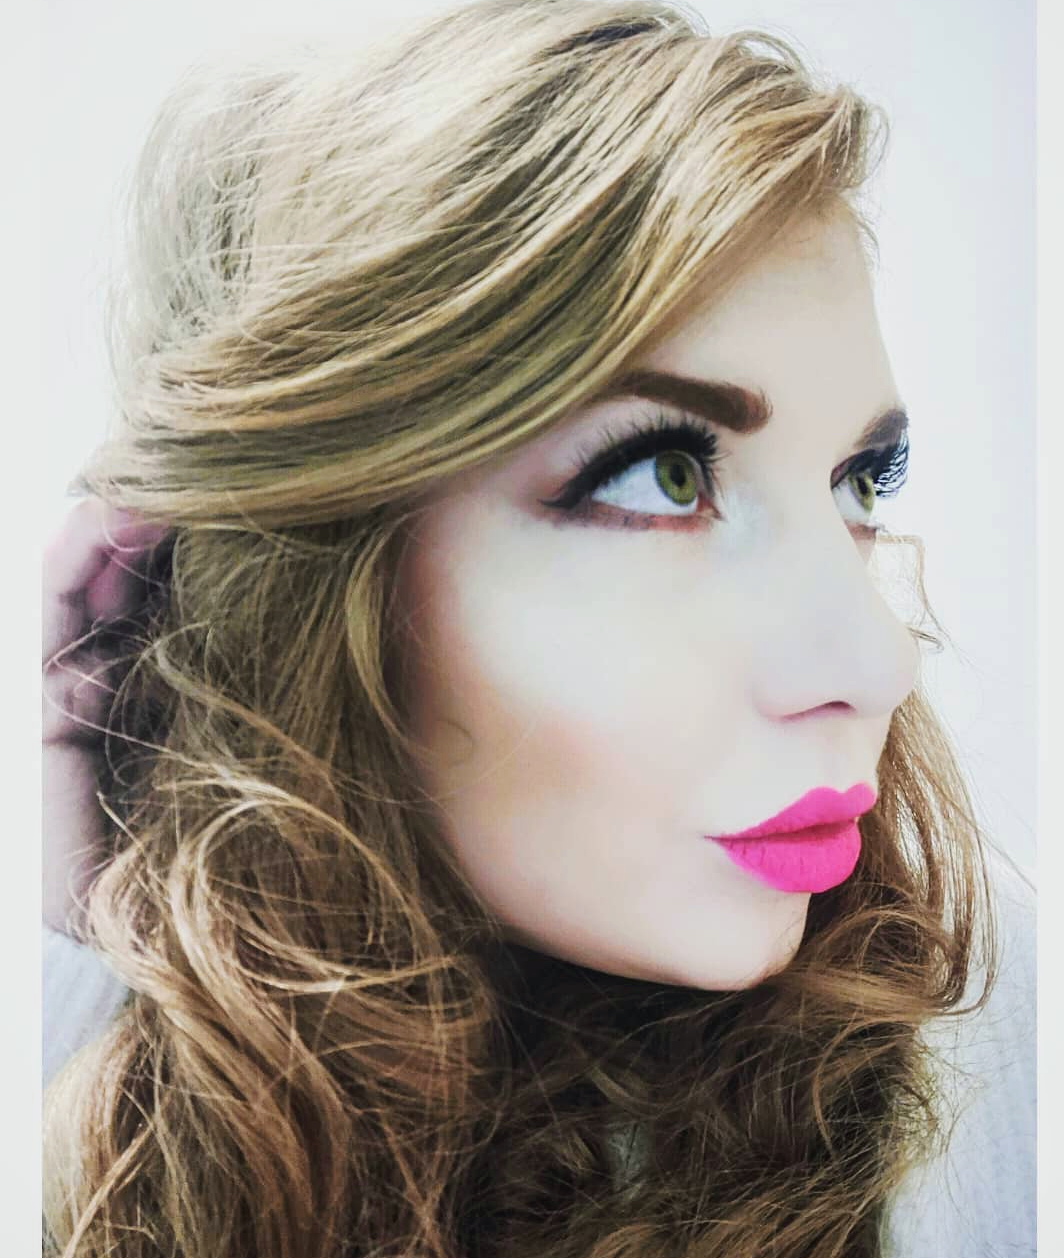
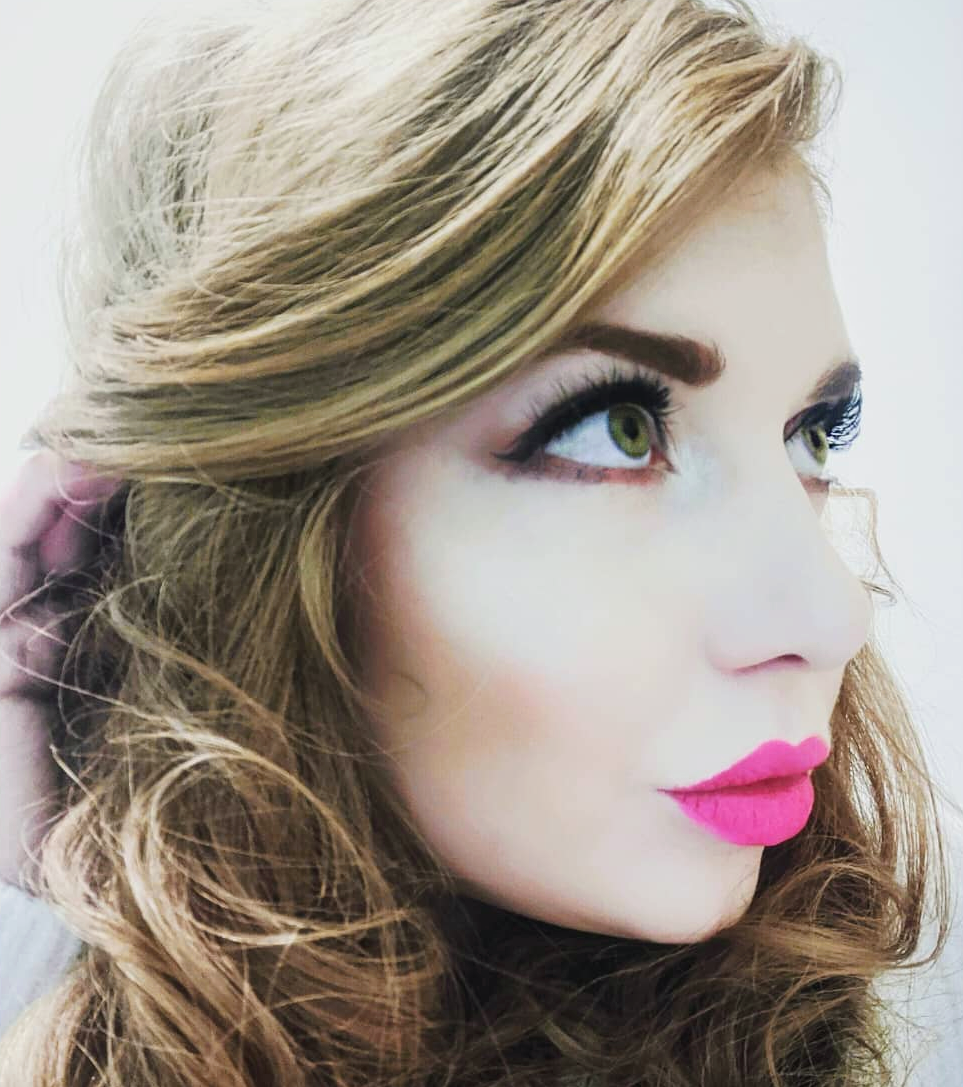
Added images

diff --git a/index.html b/index.html
@@ -68,7 +68,7 @@
                     Find out more in the About Me section.
                 </p>
                 <div class="about-button">
-                    <a class="secondary-button" href="/about.html" title="About Alexandra Jenkins">About me</a>                    
+                    <a class="secondary-button" href="/About.html" title="About Alexandra Jenkins">About me</a>                    
                 </div>
             </div>
         </div>
@@ -83,22 +83,25 @@
     <div class="carousel-item active">
       <img src="..." class="d-block w-100" alt="...">
       <div class="carousel-caption d-none d-md-block">
-        <h5>First slide label</h5>
-        <p>Some representative placeholder content for the first slide.</p>
+        <h5>FASHION</h5>
       </div>
     </div>
     <div class="carousel-item">
       <img src="..." class="d-block w-100" alt="...">
       <div class="carousel-caption d-none d-md-block">
-        <h5>Second slide label</h5>
-        <p>Some representative placeholder content for the second slide.</p>
+        <h5>FOOD STYLING</h5>
       </div>
     </div>
     <div class="carousel-item">
       <img src="..." class="d-block w-100" alt="...">
       <div class="carousel-caption d-none d-md-block">
-        <h5>Third slide label</h5>
-        <p>Some representative placeholder content for the third slide.</p>
+        <h5>FITNESS</h5>
+      </div>
+      <div class="carousel-item">
+      <img src="..." class="d-block w-100" alt="...">
+      <div class="carousel-caption d-none d-md-block">
+        <h5>FRONTEND DEVELOPMENT</h5>
+      </div>
       </div>
     </div>
   </div>

diff --git a/About.html b/About.html
@@ -1,0 +1,18 @@
+<!DOCTYPE html>
+<html lang="en">
+<head>
+    <meta charset="UTF-8">
+    <meta http-equiv="X-UA-Compatible" content="IE=edge">
+    <meta name="viewport" content="width=device-width, initial-scale=1.0">
+    <title>Alexandra Jenkins Portfolio</title>
+    <link href="https://cdn.jsdelivr.net/npm/bootstrap@5.0.2/dist/css/bootstrap.min.css" rel="stylesheet" integrity="sha384-EVSTQN3/azprG1Anm3QDgpJLIm9Nao0Yz1ztcQTwFspd3yD65VohhpuuCOmLASjC" crossorigin="anonymous">
+    <script src="https://cdn.jsdelivr.net/npm/bootstrap@5.0.2/dist/js/bootstrap.bundle.min.js" integrity="sha384-MrcW6ZMFYlzcLA8Nl+NtUVF0sA7MsXsP1UyJoMp4YLEuNSfAP+JcXn/tWtIaxVXM" crossorigin="anonymous"></script>
+    <link rel="stylesheet" href="Styles/Portfolio.css">
+    <link rel="preconnect" href="https://fonts.googleapis.com">
+<link rel="preconnect" href="https://fonts.gstatic.com" crossorigin>
+<link href="https://fonts.googleapis.com/css2?family=Open+Sans&family=Poppins:wght@100;500;700&family=Raleway:wght@300;400&display=swap" rel="stylesheet">
+</head>
+<body>
+   PENDING ⏳
+</body>
+</html>

diff --git a/Styles/Portfolio.css b/Styles/Portfolio.css
@@ -39,8 +39,8 @@ width: 60%;
     font-weight:300;
 }
 .profile-pic {
-  max-width: 600px;
-  max-height: 500px;
+  max-width: 500px;
+  max-height: 450px;
   border-radius: 50%;
 }
 .homepage-about{
@@ -70,4 +70,4 @@ font-family: var(--font-heading);
 }
 .secondary-button:hover {
     color: var(--first-colour);
-    background: var(--second-colour);
+    background: var(--second-colour);}
